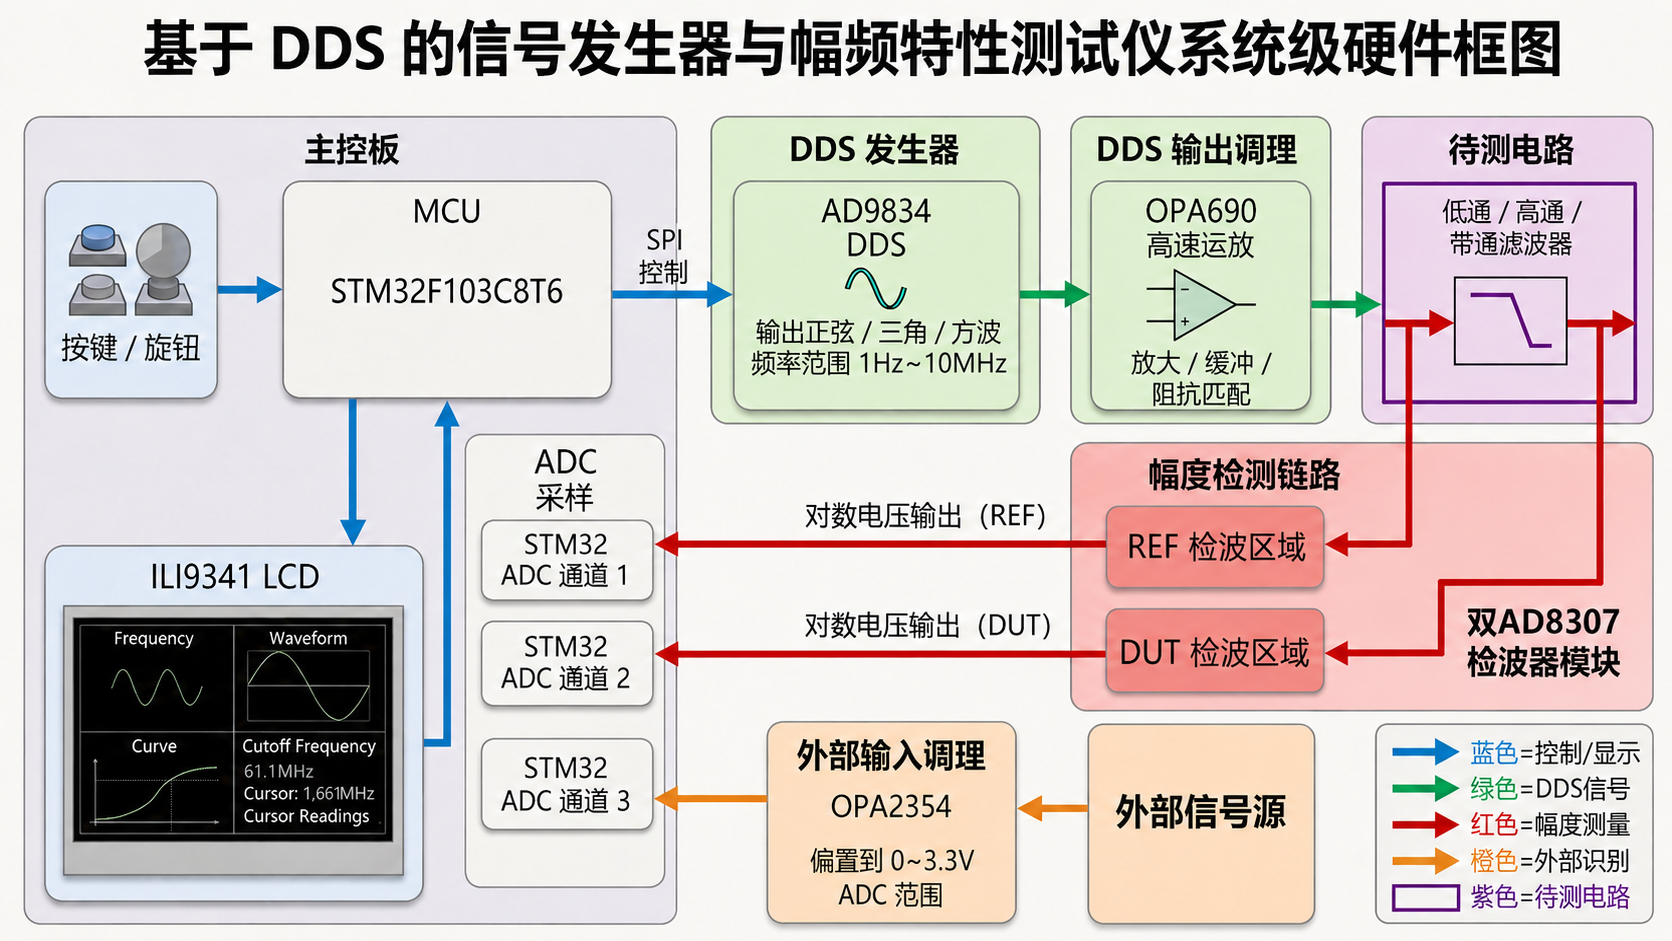
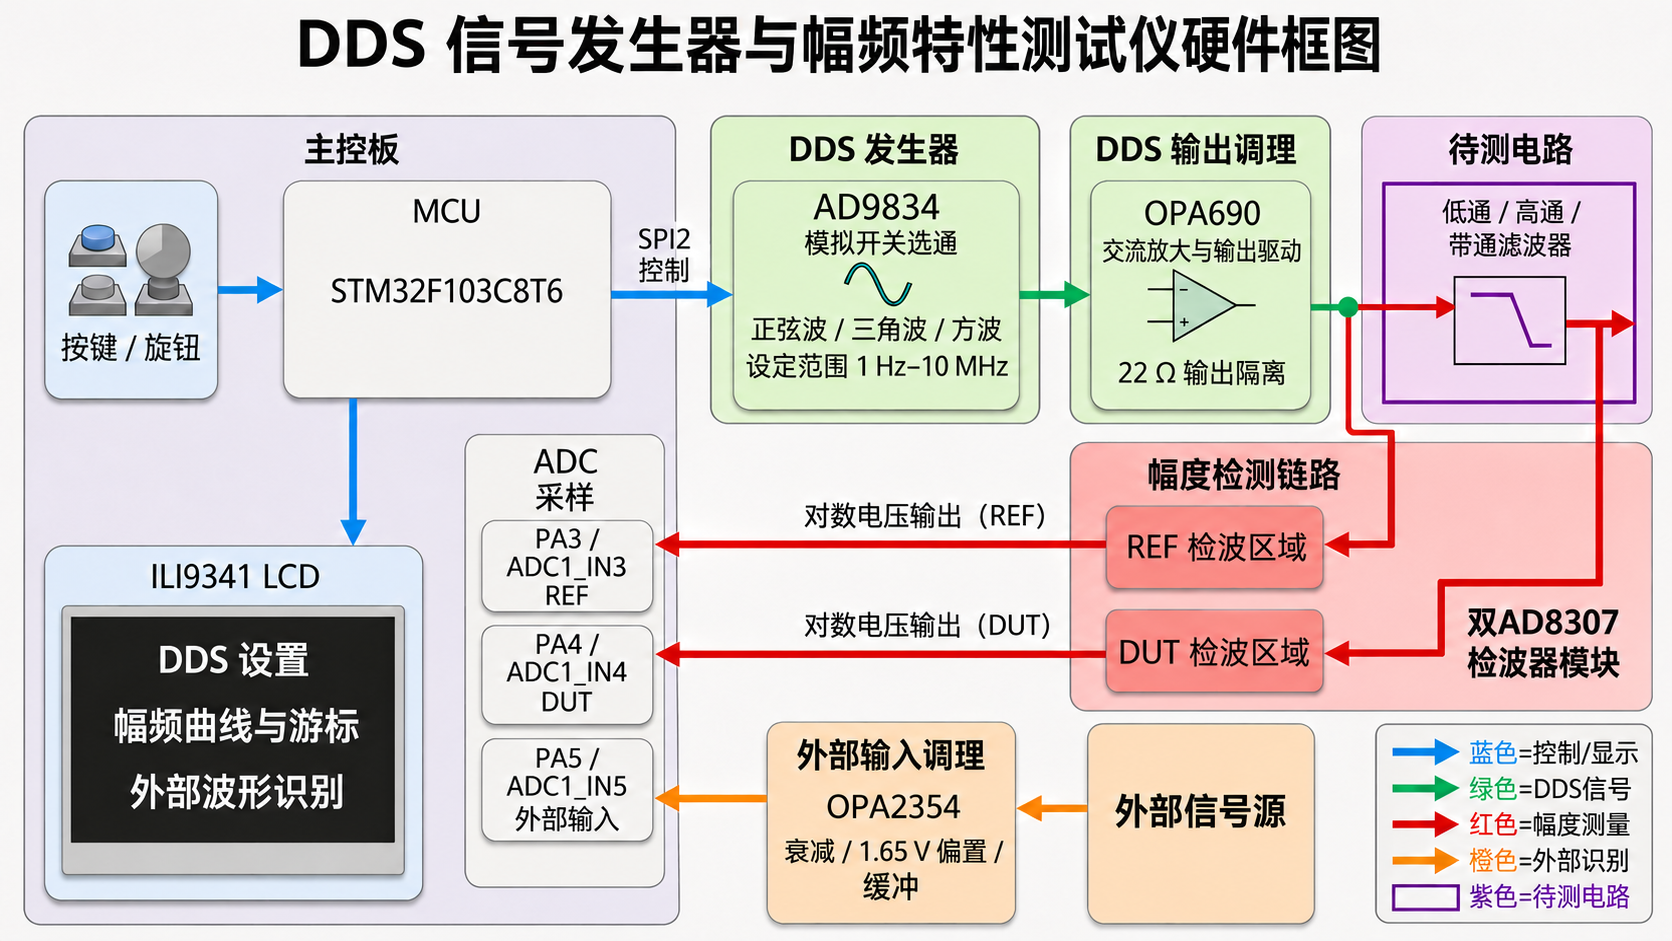
Correct hardware diagram and show both architecture figures

diff --git a/README.md b/README.md
@@ -25,6 +25,12 @@
 - **幅频测量**　REF 和 DUT 通道分别检测待测网络的输入与输出。固件按约 25 mV/dB 的典型斜率将两路 AD8307 输出电压之差换算为增益，再应用固定偏移和可选的逐点直通补偿。每个频点采集三轮，每轮对每路平均 96 次，取三轮结果的中值。
 - **外部识别**　外部信号经 OPA2354 衰减、偏置和缓冲后送入 PA5，由 TIM3 触发 ADC 和 DMA 采样。固件通过带滞回的过阈值事件估算频率，结合峰值因数、平均绝对幅度比例和曲率判断波形。
 
+### 硬件框图
+
+![硬件框图，标注 DDS 激励、REF 与 DUT 检波及 PA5 外部输入](docs/images/hardware_block_diagram.png)
+
+### 软件架构
+
 ![软件功能与驱动分层示意图](docs/images/software_architecture.png)
 
 ## 编译与上手
